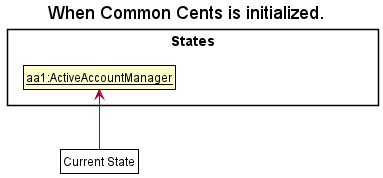
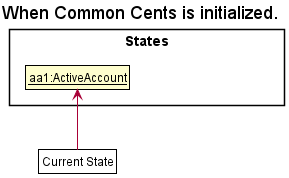
Update Undo Implementation in DG

diff --git a/docs/DeveloperGuide.md b/docs/DeveloperGuide.md
@@ -158,39 +158,36 @@ This feature allows the user to undo their previous entry-level commands.
 
 #### Implementation
 
-The undo mechanism is facilitated by `ActiveAccountManager`, which implements the interface `ActiveAccount`, and the `UndoCommand`, which extends `Command`. The `ActiveAccountManager` 
-stores its previous state as an `ActiveAccount` attribute when a entry command is executed. On the other hand, the `ActiveAccount` sets the attribute containing it previous 
-state as its current state when `UndoCommand` is executed. As such, it implements the following operations:
+The undo mechanism is facilitated by `UndoCommand`, which extends `Command` and is identified by `CommonCentsParser`. 
+The `UndoCommand` interacts with `ActiveAccount` using methods in `ActiveAccount`. As such, it implements the following operations:
 
-* `ActiveAccountManager#setPreviousState()` — Saves a copy of the current `ActiveAccountManager` state as an attribute in `ActiveAccountManager`.
-* `ActiveAccountManager#returnToPreviousState()` — Restores the previous `ActiveAccountManager` state from its attribute.
-
-These operations are exposed in the `ActiveAccount` interface as `ActiveAccount#setPreviousState()` and `ActiveAccount#returnToPreviousState()` respectively.
+* `ActiveAccount#setPreviousState()` — Saves a copy of the current `ActiveAccount` state as an attribute in `ActiveAccount`.
+* `ActiveAccount#returnToPreviousState()` — Restores the previous `ActiveAccount` state from its attribute.
 
 Given below is an example usage scenario and how the undo mechanism behaves at each step. Note that each step starts with an explanation followed by a diagram.
 
-* Step 1. When the user first runs _Common Cents_, `ActiveAccountManager` does not store any previous states as shown in the diagram below.
+* Step 1. When the user first runs _Common Cents_, `ActiveAccount` does not store any previous states as shown in the diagram below.
 
 ![UndoState0](images/UndoState0.png)
 
-* Step 2. The user executes `delete 5 c/expense` command to delete the 5th expense in the expense list in `ActiveAccountManager`. The `delete` command calls `ActiveAccountManager#setPreviousState()` initially, 
-causing a copy of the `ActiveAccountManager` state before the `delete 5 c/expense` command executes to be saved as an attribute. After this, the `delete 5 c/expense` command executes and the
-model is updated according to the modified `ActiveAccountManager`.
+* Step 2. The user executes `delete 5 c/expense` command to delete the 5th expense in the expense list in `ActiveAccount`. The `delete` command calls `ActiveAccount#setPreviousState()` initially, 
+causing a copy of the `ActiveAccount` state before the `delete 5 c/expense` command executes to be saved as an attribute. After this, the `delete 5 c/expense` command executes and the
+model is updated according to the modified `ActiveAccount`.
 
 ![UndoState1](images/UndoState1.png)
 
-<div markdown="span" class="alert alert-info">:information_source: **Note:** If a command fails its execution, it will not call `ActiveAccountManager#setPreviousState()`, so the state will not be saved into its attribute.
+<div markdown="span" class="alert alert-info">:information_source: **Note:** If a command fails its execution, it will not call `ActiveAccount#setPreviousState()`, so the state will not be saved into its attribute.
 
 </div>
 
-* Step 3. The user now decides that deleting the expense was a mistake, and decides to undo that action by executing the `undo` command. The `undo` command will call `ActiveAccountManager#returnToPreviousState()`, 
-which will set data of the previous state attribute to the current `ActiveAccountManager`. 
+* Step 3. The user now decides that deleting the expense was a mistake, and decides to undo that action by executing the `undo` command. The `undo` command will call `ActiveAccount#returnToPreviousState()`, 
+which will set data of the previous state attribute to the current `ActiveAccount`. 
 
 ![UndoState3](images/UndoState2.png)
 
-<div markdown="span" class="alert alert-info">:information_source: **Note:** If the `ActiveAccountManager` does not have a previous state 
-(i.e The `previousState` attribute in `ActiveAccountManager` is empty) then there are no previous `ActiveAccountManager` states to restore. 
-The `undo` command uses `Model#hasNoPreviousState()` to check if this is the case. If so, it will return an error to the user rather
+<div markdown="span" class="alert alert-info">:information_source: **Note:** If the `ActiveAccount` does not have a previous state 
+(i.e The `previousState` attribute in `ActiveAccount` is empty) then there are no previous `ActiveAccount` states to restore. 
+The `undo` command uses `ActiveAccount#hasNoPreviousState()` to check if this is the case. If so, it will return an error to the user rather
 than attempting to perform the undo.
 
 </div>
@@ -211,7 +208,7 @@ The following activity diagram summarizes what happens when a user executes a ne
 
 ![CommitActivityDiagram](images/CommitActivityDiagram.png)
 
-<div markdown="span" class="alert alert-info">:information_source: **Note:** `ActiveAccountManager#setPreviousState()` is only called in `add`, `delete`, `edit`, and `clear` commands. 
+<div markdown="span" class="alert alert-info">:information_source: **Note:** `ActiveAccount#setPreviousState()` is only called in `add`, `delete`, `edit`, and `clear` commands. 
 Hence, the `undo` command only works on the previously stated entry-level commands.
 
 </div>
